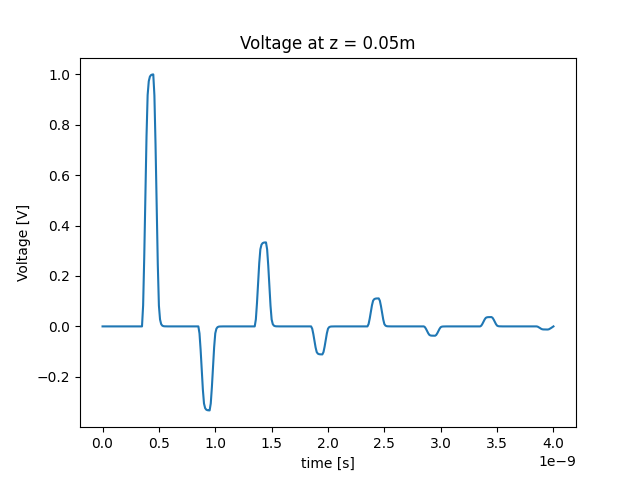
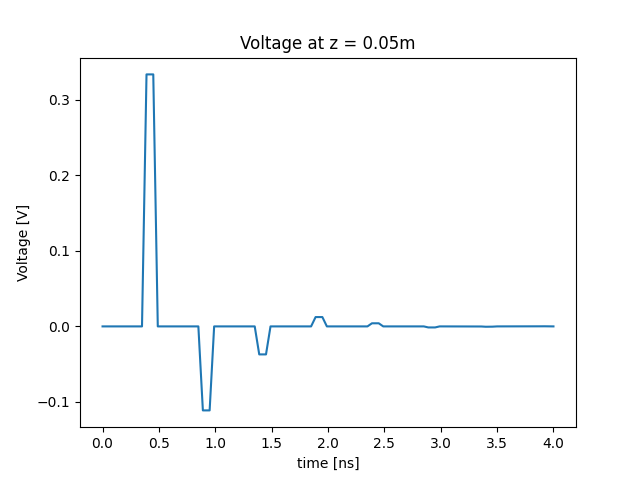
Fixing leapfrog scheme and enhancing code

diff --git a/Electromagnetism_I/Project/python_code/EMproject.py b/Electromagnetism_I/Project/python_code/EMproject.py
@@ -1,0 +1,195 @@
+#=============================================================#
+# Welcome to EMproject.py!
+# The purpose of this python file is to calculate the currents 
+# and voltages on a transmission line given certain boundary 
+# conditions.
+# This file is created by: - Bram Popelier
+#                          - Constantijn Coppers
+#                          - Vincent Belpaire
+#=============================================================#
+
+#==================#
+# importing modules
+#==================#
+
+import argparse
+import numpy as np
+import matplotlib.pyplot as plt
+import matplotlib.animation as animation
+
+#=========================#
+# defining argument parser
+#=========================#
+
+parser = argparse.ArgumentParser(description='Input data file to run programm.')
+parser.add_argument('file', type=str, help='Enter the file in which the data is contained to run the leapfrog scheme.', nargs='?', default=None)
+
+#===========================#
+# creating usefull functions
+#===========================#
+
+# defining some mathematical functions
+
+H = lambda t: 1*np.greater(t, 0) # heavie side function
+def B(a,b):
+    # block function (a < b)
+    return lambda t: H(t-a) - H(t-b)
+
+# define source signal (the bit)
+
+def bit(A, tr, th, tf, D=0):
+    """
+    A: voltage amplitude [V]
+    tr: rise time [s]
+    th: half-amplitude pulse width [s]
+    tf: fall time [s]
+    D: delay [s]
+    """
+    t1, t2, t3, t4 = D, D+tr, D+1/2*tr+th-1/2*tf, D+1/2*tr+th+1/2*tf
+    return lambda t: A/tr*(t-t1)*B(t1, t2)(t) + A*B(t2,t4)(t) - A/tr*(t-t3)*B(t3,t4)(t)
+
+#=========================#
+# creating leapfrog scheme
+#=========================#
+
+def leapfrog_scheme(alpha, Rc, Eg, Rg, Rl, Cl, M, N):
+    """
+    alpha: courant factor of the transmission line
+    Rc: characteristic impedance of the transmission line
+    Eg: source signal
+    Rg: generator impedance
+    Rl: load impedance
+    Cl: load capacitance
+    M: number of time steps
+    N: number of cells
+    """
+
+    # define adjusted current and voltage
+    V = np.zeros((N+1,M+1))
+    i = np.zeros((N,M)) # remark i = Rc*I
+
+    # define constants for leapfrog scheme
+
+    rg, rl = Rc/Rg, Rc/Rl # adjusted Rc with respect to Rg and Rl
+    C1, C2 = (1-alpha*rg)/(1+alpha*rg), 2*alpha/(1+alpha*rg) # constants for BC at z = 0
+    C3, C4 = (1-alpha*rl)/(1+alpha*rl), 2*alpha/(1+alpha*rl) # constants for BC at z = N*dz
+
+    for m in range(M-1):
+
+        i[:,m] = i[:,m-1] + alpha*(V[:N,m] - V[1:,m])
+        V[0,m+1] = C1*V[0,m] + C2*(rg*Eg[m] - i[0,m])
+        V[1:N,m+1] = V[1:N,m] + alpha*(i[0:N-1,m] - i[1:N,m])
+        V[N,m+1] = C3*V[N,m] + C4*i[N-1,m]
+
+    I = 1/Rc*i # readjust i to I
+    return V, I
+
+#============================#
+# creating plotting functions
+#============================#
+ 
+def plot_time(V, t, Z=0, n=None, name="exampletime.png"):
+
+    if n:
+        V = V[n,:]
+
+    fig, ax = plt.subplots()
+    ax.plot(t*10**9, V)
+    ax.set_xlabel('time [ns]')
+    ax.set_ylabel('Voltage [V]')
+    ax.set_title(f'Voltage at z = {Z}m')
+    plt.savefig(name)
+
+
+def plot_space(V, z, T, m, name="exampleposition.png"):
+
+    fig, ax = plt.subplots()
+    ax.plot(z, V[:,m])
+    ax.set_xlabel('z-position [m]')
+    ax.set_ylabel('Voltage [V]')
+    ax.set_ylim(-1,1)
+    ax.set_title(f'Voltage at t = {T*10**9:.2f} ns')
+    plt.savefig(name)
+
+def plot_animation(V, z, t):
+    
+    t = t*10**9
+
+    fig = plt.figure(figsize=(10,6))
+
+    def plot_initialize():
+        plt.ylim(-1, 1)
+        plt.xlabel('z-coordinate [m]',fontsize=20)
+        plt.ylabel('voltage [V]',fontsize=20)
+
+    def animate(i):
+        
+        plt.clf()
+        plot_initialize()
+        plt.plot(z, V[:,i])
+        plt.title(f'Voltage at {t[i]:.2f} ns',fontsize=20)
+    
+    ani = animation.FuncAnimation(fig, animate, interval=50)
+    ani.save('animation.mp4')
+
+
+#=====================#
+# running the programm
+#=====================# 
+
+if __name__ == "__main__":
+
+    args = parser.parse_args()
+    file = args.file
+
+    if file is None:
+        print("No file argument was given.")
+        file = input("Please enter a file: ")
+
+    with open(file, 'r') as f:
+        parameters = np.loadtxt(file)
+        f.close()
+
+    # unpacking the parameters
+
+    d = parameters[0]
+    v = parameters[1]
+    Rc = parameters[2]
+    Rg = parameters[3]
+    Rl = parameters[4]
+    Cl = parameters[5]
+    A = parameters[6]
+    Tbit = parameters[7]
+    tr = parameters[8]
+    D = parameters[9]
+    N = int(parameters[10])
+    dt = parameters[11]
+    M = int(parameters[12])
+    z_sensor = parameters[13]
+    m_snapchot = int(parameters[14])
+
+    # creating other constants
+
+    dz = d/N
+    alpha = v*dt/dz
+
+    # creating time and space coordinates
+
+    t = dt*np.arange(M+1)
+    z = dz*np.arange(N+1)
+
+    # executing the leapfrog scheme
+
+    Eg = bit(A, tr, Tbit, tr, D)(t[:-1]+dt/2)
+    V, I = leapfrog_scheme(alpha, Rc, Eg, Rg, Rl, Cl, M, N)
+
+    # plotting the output
+
+    plot_time(V, t, z_sensor, int(z_sensor/dz), name=file[:-4]+"time.png")
+    plot_space(V, z, dt*m_snapchot, m_snapchot, name=file[:-4]+"position.png")
+    plot_animation(V,z,t)
+
+
+
+
+
